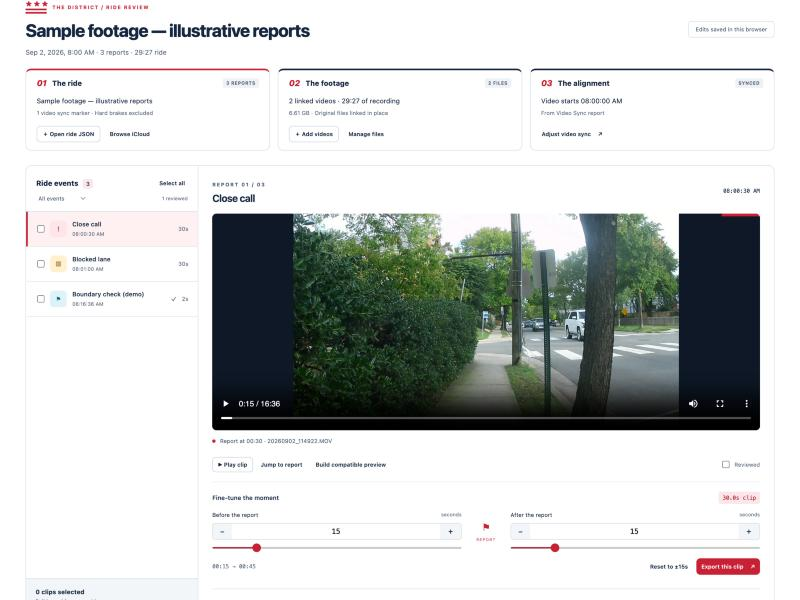
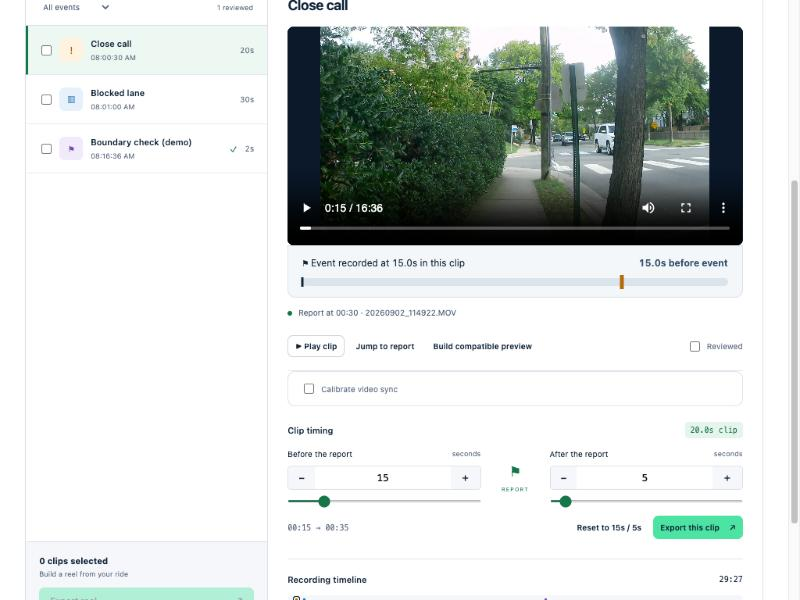
Clip page: reshoot the browser-version screenshot
The browser app was restyled alongside the 1.0.2 work — the DC theme
and dark chrome are gone, replaced by a light layout in BumpyRide
green. The screenshot on /clip still showed the old look, so it read
as a different product from the one people would open.

Recaptured against the running app with the sample project loaded, and
reset the handles to 15s / 5s before shooting. The restored project had
15/15 saved on it, which would have contradicted the sentence directly
above the image saying clips start at 15 before and 5 after. Now the
screenshot shows 15 / 5 and a 20.0s clip, matching the copy.

The frame also now includes two things the old shot predated and the
copy already describes: the event marker bar reading "Event recorded at
15.0s in this clip", and Calibrate video sync.

Alt text updated to describe what is actually in the image.

diff --git a/src/app/clip/page.tsx b/src/app/clip/page.tsx
@@ -201,7 +201,7 @@ export default function ClipPage() {
         </p>
         <Image
           src="/screenshots/clip-trim.jpg"
-          alt="A clip being trimmed, with separate before and after handles, the resulting clip length, and an export button."
+          alt="A clip being trimmed in the browser version: separate before and after handles set to 15 and 5 seconds, a 20-second clip, a bar marking where the report lands, and an export button."
           width={800}
           height={600}
           className="mt-6 w-full rounded-xl border border-border shadow-2xl"
